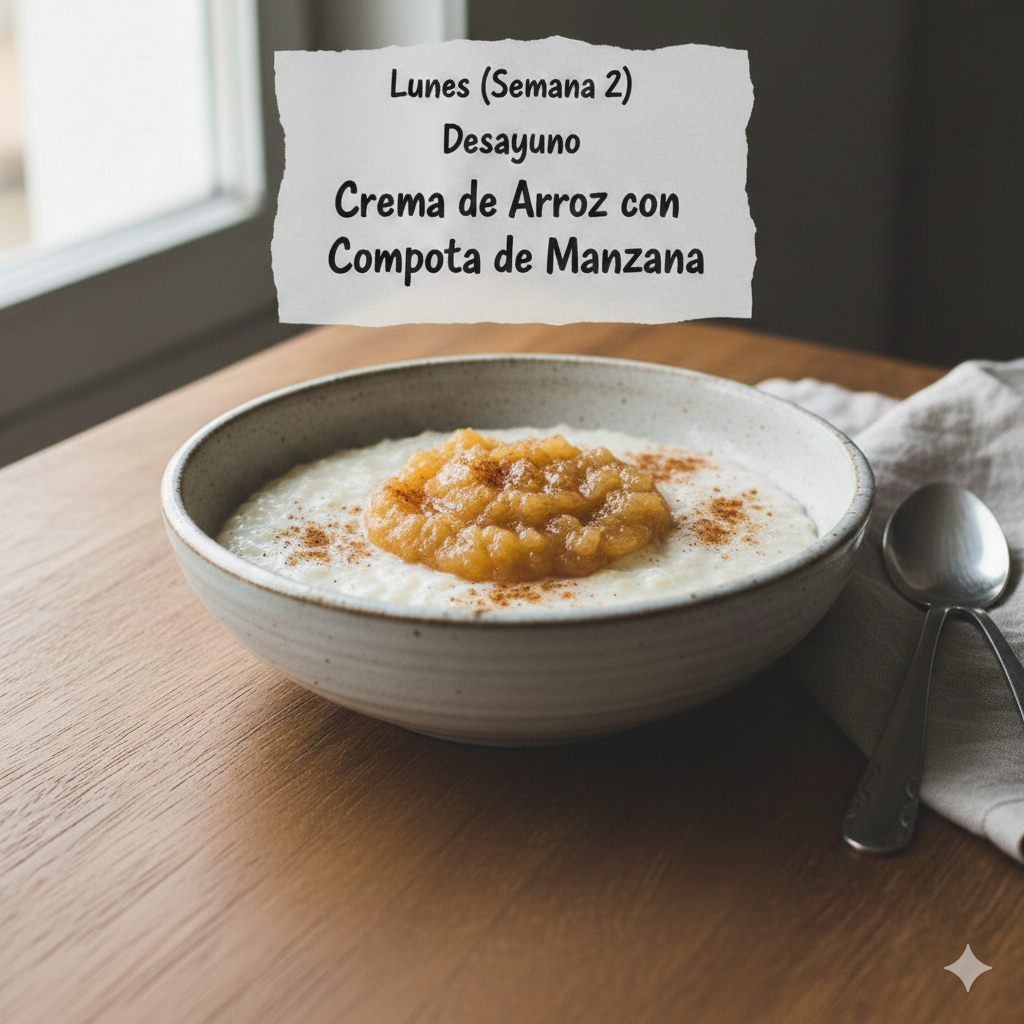
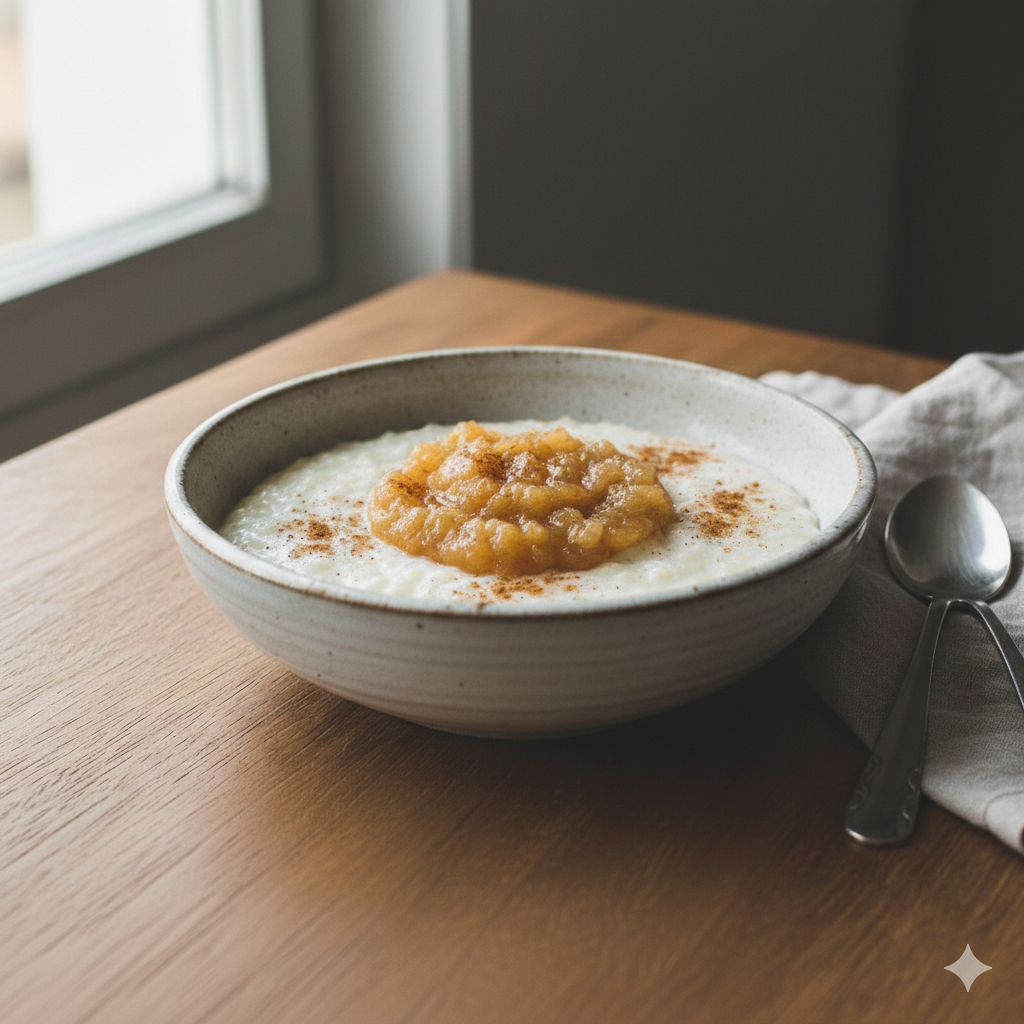
Add more images for 2 days

diff --git a/docs/assets/index-CMbODbm9.js b/docs/assets/index-CMbODbm9.js
@@ -89,35 +89,35 @@ Error generating stack: `+t.message+`
 1. Cocer.
 2. Añadir clara.
 3. Triturar.
-4. Servir.`,prompt:"Healthy vegetable mash in a bowl"},{day:"Lunes (Semana 2)",meal:"Desayuno",title:"Crema de Arroz con Compota de Manzana",image:"images/generic.png",recipe:`Ingredientes: 40g de arroz blanco, 300ml de agua, 100g de compota/puré de manzana sin azúcar, 1 pizca de canela (opcional).
+4. Servir.`,prompt:"Healthy vegetable mash in a bowl"},{day:"Lunes (Semana 2)",meal:"Desayuno",title:"Crema de Arroz con Compota de Manzana",image:"images/2lunes1.png",recipe:`Ingredientes: 40g de arroz blanco, 300ml de agua, 100g de compota/puré de manzana sin azúcar, 1 pizca de canela (opcional).
 1. Lavar el arroz y cocerlo en 300ml de agua a fuego bajo 18-20 minutos (debe quedar muy blando).
 2. Triturar el arroz cocido con parte del líquido hasta lograr una crema (añadir un poco de agua si queda muy espeso).
 3. Servir tibio y colocar la compota de manzana encima.
-4. Opcional: espolvorear una pizca de canela; evitar limón o cítricos.`,prompt:"Creamy rice porridge topped with applesauce in a simple bowl, soft lighting"},{day:"Lunes (Semana 2)",meal:"Almuerzo",title:"Tilapia en Papillote con Calabacín y Patata",image:"images/generic.png",recipe:`Ingredientes: 150g de filete de tilapia (u otro pescado blanco), 200g de patata, 120g de calabacín, 5ml (1 cdita) de aceite de oliva, sal mínima.
+4. Opcional: espolvorear una pizca de canela; evitar limón o cítricos.`,prompt:"Creamy rice porridge topped with applesauce in a simple bowl, soft lighting"},{day:"Lunes (Semana 2)",meal:"Almuerzo",title:"Tilapia en Papillote con Calabacín y Patata",image:"images/2lunes2.png",recipe:`Ingredientes: 150g de filete de tilapia (u otro pescado blanco), 200g de patata, 120g de calabacín, 5ml (1 cdita) de aceite de oliva, sal mínima.
 1. Hervir la patata en cubos 10-12 min hasta que esté tierna; escurrir.
 2. Colocar el pescado y el calabacín en láminas sobre papel para horno; añadir 2 cdas de agua y cerrar el papillote.
 3. Hornear a 180°C por 12-15 min (sin dorar en exceso).
-4. Servir tibio con la patata y añadir 1 cdita de aceite al final.`,prompt:"White fish baked in parchment with zucchini, served with boiled potatoes, minimalistic plate"},{day:"Lunes (Semana 2)",meal:"Cena",title:"Crema de Calabacín y Patata",image:"images/generic.png",recipe:`Ingredientes: 250g de calabacín pelado, 150g de patata, 450ml de agua o caldo desgrasado, 5ml (1 cdita) de aceite de oliva.
+4. Servir tibio con la patata y añadir 1 cdita de aceite al final.`,prompt:"White fish baked in parchment with zucchini, served with boiled potatoes, minimalistic plate"},{day:"Lunes (Semana 2)",meal:"Cena",title:"Crema de Calabacín y Patata",image:"images/2lunes3.png",recipe:`Ingredientes: 250g de calabacín pelado, 150g de patata, 450ml de agua o caldo desgrasado, 5ml (1 cdita) de aceite de oliva.
 1. Cortar calabacín y patata en cubos y hervir 18-20 min.
 2. Reservar un poco del líquido de cocción y triturar hasta textura fina.
 3. Ajustar con el líquido reservado si hace falta (debe quedar crema ligera).
-4. Servir tibia y añadir 1 cdita de aceite por encima.`,prompt:"Smooth zucchini and potato cream soup in a white bowl, soft steam"},{day:"Martes (Semana 2)",meal:"Desayuno",title:"Sémola de Trigo con Leche Desnatada",image:"images/generic.png",recipe:`Ingredientes: 35g de sémola de trigo (o farina), 250ml de leche desnatada (o bebida vegetal), 1 pizca de canela (opcional).
+4. Servir tibia y añadir 1 cdita de aceite por encima.`,prompt:"Smooth zucchini and potato cream soup in a white bowl, soft steam"},{day:"Martes (Semana 2)",meal:"Desayuno",title:"Sémola de Trigo con Leche Desnatada",image:"images/2martes1.png",recipe:`Ingredientes: 35g de sémola de trigo (o farina), 250ml de leche desnatada (o bebida vegetal), 1 pizca de canela (opcional).
 1. Calentar la leche a fuego bajo hasta que esté caliente (sin hervir fuerte).
 2. Añadir la sémola en lluvia, removiendo para evitar grumos.
 3. Cocinar 3-4 min hasta que espese, removiendo suave.
-4. Servir tibia; opcional añadir canela (sin cacao ni chocolate).`,prompt:"Warm semolina porridge in a bowl, creamy texture, simple presentation"},{day:"Martes (Semana 2)",meal:"Almuerzo",title:"Pollo al Horno Jugoso con Puré de Camote",image:"images/generic.png",recipe:`Ingredientes: 150g de pechuga de pollo, 250g de camote/batata, 30ml de leche desnatada (opcional), 5ml (1 cdita) de aceite de oliva, sal mínima.
+4. Servir tibia; opcional añadir canela (sin cacao ni chocolate).`,prompt:"Warm semolina porridge in a bowl, creamy texture, simple presentation"},{day:"Martes (Semana 2)",meal:"Almuerzo",title:"Pollo al Horno Jugoso con Puré de Camote",image:"images/2martes2.png",recipe:`Ingredientes: 150g de pechuga de pollo, 250g de camote/batata, 30ml de leche desnatada (opcional), 5ml (1 cdita) de aceite de oliva, sal mínima.
 1. Hervir el camote pelado 18-20 min; chafar con 30ml de leche o con un poco de agua de cocción.
 2. Colocar el pollo en una fuente con 1 cda de agua, tapar con papel aluminio.
 3. Hornear a 180°C por 18-20 min (evitar que se dore o se seque).
-4. Reposar 2 min, cortar en tiras y servir con el puré tibio.`,prompt:"Tender baked chicken breast served with smooth sweet potato mash, neutral tones"},{day:"Martes (Semana 2)",meal:"Cena",title:"Sopa de Arroz con Zanahoria",image:"images/generic.png",recipe:`Ingredientes: 500ml de caldo desgrasado (pollo o verduras), 40g de arroz blanco, 60g de zanahoria, sal mínima.
+4. Reposar 2 min, cortar en tiras y servir con el puré tibio.`,prompt:"Tender baked chicken breast served with smooth sweet potato mash, neutral tones"},{day:"Martes (Semana 2)",meal:"Cena",title:"Sopa de Arroz con Zanahoria",image:"images/2martes3.png",recipe:`Ingredientes: 500ml de caldo desgrasado (pollo o verduras), 40g de arroz blanco, 60g de zanahoria, sal mínima.
 1. Llevar el caldo a ebullición suave.
 2. Añadir la zanahoria en cubitos muy pequeños y cocer 8 min.
 3. Agregar el arroz lavado y cocinar 18-20 min hasta que esté muy blando.
-4. Servir tibia; si queda espesa, ajustar con un poco de agua caliente.`,prompt:"Simple rice and carrot soup, clear broth, comforting bowl"},{day:"Miércoles (Semana 2)",meal:"Desayuno",title:"Pan Blanco con Requesón y Mermelada de Durazno",image:"images/generic.png",recipe:`Ingredientes: 2 rebanadas de pan blanco, 60g de requesón/ricotta (bajo en grasa), 20g de mermelada de durazno sin semillas.
+4. Servir tibia; si queda espesa, ajustar con un poco de agua caliente.`,prompt:"Simple rice and carrot soup, clear broth, comforting bowl"},{day:"Miércoles (Semana 2)",meal:"Desayuno",title:"Pan Blanco con Requesón y Mermelada de Durazno",image:"images/2miercoles1.png",recipe:`Ingredientes: 2 rebanadas de pan blanco, 60g de requesón/ricotta (bajo en grasa), 20g de mermelada de durazno sin semillas.
 1. Tostar el pan muy ligeramente (solo para entibiar).
 2. Untar el requesón en capa fina.
 3. Añadir la mermelada por encima (cantidad moderada).
-4. Consumir despacio; evitar mermeladas ácidas (cítricos).`,prompt:"White bread toast with ricotta and peach jam, minimal styling"},{day:"Miércoles (Semana 2)",meal:"Almuerzo",title:"Bacalao Hervido con Patata",image:"images/generic.png",recipe:`Ingredientes: 160g de bacalao fresco (o pescado blanco), 200g de patata, 5ml (1 cdita) de aceite de oliva, sal mínima.
+4. Consumir despacio; evitar mermeladas ácidas (cítricos).`,prompt:"White bread toast with ricotta and peach jam, minimal styling"},{day:"Miércoles (Semana 2)",meal:"Almuerzo",title:"Bacalao Hervido con Patata",image:"images/2miercoles2.png",recipe:`Ingredientes: 160g de bacalao fresco (o pescado blanco), 200g de patata, 5ml (1 cdita) de aceite de oliva, sal mínima.
 1. Hervir la patata en cubos 12-15 min; escurrir.
 2. En otra olla, calentar agua hasta casi hervir (fuego suave).
 3. Cocer el bacalao 6-8 min (solo hasta que se desmenuce; no sobrecocer).

diff --git a/src/App.jsx b/src/App.jsx
@@ -242,7 +242,7 @@ const App = () => {
     day: "Lunes (Semana 2)",
     meal: "Desayuno",
     title: "Crema de Arroz con Compota de Manzana",
-    image: "images/generic.png",
+    image: "images/2lunes1.png",
     recipe:
       "Ingredientes: 40g de arroz blanco, 300ml de agua, 100g de compota/puré de manzana sin azúcar, 1 pizca de canela (opcional).\n1. Lavar el arroz y cocerlo en 300ml de agua a fuego bajo 18-20 minutos (debe quedar muy blando).\n2. Triturar el arroz cocido con parte del líquido hasta lograr una crema (añadir un poco de agua si queda muy espeso).\n3. Servir tibio y colocar la compota de manzana encima.\n4. Opcional: espolvorear una pizca de canela; evitar limón o cítricos.",
     prompt: "Creamy rice porridge topped with applesauce in a simple bowl, soft lighting"
@@ -251,7 +251,7 @@ const App = () => {
     day: "Lunes (Semana 2)",
     meal: "Almuerzo",
     title: "Tilapia en Papillote con Calabacín y Patata",
-    image: "images/generic.png",
+    image: "images/2lunes2.png",
     recipe:
       "Ingredientes: 150g de filete de tilapia (u otro pescado blanco), 200g de patata, 120g de calabacín, 5ml (1 cdita) de aceite de oliva, sal mínima.\n1. Hervir la patata en cubos 10-12 min hasta que esté tierna; escurrir.\n2. Colocar el pescado y el calabacín en láminas sobre papel para horno; añadir 2 cdas de agua y cerrar el papillote.\n3. Hornear a 180°C por 12-15 min (sin dorar en exceso).\n4. Servir tibio con la patata y añadir 1 cdita de aceite al final.",
     prompt: "White fish baked in parchment with zucchini, served with boiled potatoes, minimalistic plate"
@@ -260,7 +260,7 @@ const App = () => {
     day: "Lunes (Semana 2)",
     meal: "Cena",
     title: "Crema de Calabacín y Patata",
-    image: "images/generic.png",
+    image: "images/2lunes3.png",
     recipe:
       "Ingredientes: 250g de calabacín pelado, 150g de patata, 450ml de agua o caldo desgrasado, 5ml (1 cdita) de aceite de oliva.\n1. Cortar calabacín y patata en cubos y hervir 18-20 min.\n2. Reservar un poco del líquido de cocción y triturar hasta textura fina.\n3. Ajustar con el líquido reservado si hace falta (debe quedar crema ligera).\n4. Servir tibia y añadir 1 cdita de aceite por encima.",
     prompt: "Smooth zucchini and potato cream soup in a white bowl, soft steam"
@@ -270,7 +270,7 @@ const App = () => {
     day: "Martes (Semana 2)",
     meal: "Desayuno",
     title: "Sémola de Trigo con Leche Desnatada",
-    image: "images/generic.png",
+    image: "images/2martes1.png",
     recipe:
       "Ingredientes: 35g de sémola de trigo (o farina), 250ml de leche desnatada (o bebida vegetal), 1 pizca de canela (opcional).\n1. Calentar la leche a fuego bajo hasta que esté caliente (sin hervir fuerte).\n2. Añadir la sémola en lluvia, removiendo para evitar grumos.\n3. Cocinar 3-4 min hasta que espese, removiendo suave.\n4. Servir tibia; opcional añadir canela (sin cacao ni chocolate).",
     prompt: "Warm semolina porridge in a bowl, creamy texture, simple presentation"
@@ -279,7 +279,7 @@ const App = () => {
     day: "Martes (Semana 2)",
     meal: "Almuerzo",
     title: "Pollo al Horno Jugoso con Puré de Camote",
-    image: "images/generic.png",
+    image: "images/2martes2.png",
     recipe:
       "Ingredientes: 150g de pechuga de pollo, 250g de camote/batata, 30ml de leche desnatada (opcional), 5ml (1 cdita) de aceite de oliva, sal mínima.\n1. Hervir el camote pelado 18-20 min; chafar con 30ml de leche o con un poco de agua de cocción.\n2. Colocar el pollo en una fuente con 1 cda de agua, tapar con papel aluminio.\n3. Hornear a 180°C por 18-20 min (evitar que se dore o se seque).\n4. Reposar 2 min, cortar en tiras y servir con el puré tibio.",
     prompt: "Tender baked chicken breast served with smooth sweet potato mash, neutral tones"
@@ -288,7 +288,7 @@ const App = () => {
     day: "Martes (Semana 2)",
     meal: "Cena",
     title: "Sopa de Arroz con Zanahoria",
-    image: "images/generic.png",
+    image: "images/2martes3.png",
     recipe:
       "Ingredientes: 500ml de caldo desgrasado (pollo o verduras), 40g de arroz blanco, 60g de zanahoria, sal mínima.\n1. Llevar el caldo a ebullición suave.\n2. Añadir la zanahoria en cubitos muy pequeños y cocer 8 min.\n3. Agregar el arroz lavado y cocinar 18-20 min hasta que esté muy blando.\n4. Servir tibia; si queda espesa, ajustar con un poco de agua caliente.",
     prompt: "Simple rice and carrot soup, clear broth, comforting bowl"
@@ -298,7 +298,7 @@ const App = () => {
     day: "Miércoles (Semana 2)",
     meal: "Desayuno",
     title: "Pan Blanco con Requesón y Mermelada de Durazno",
-    image: "images/generic.png",
+    image: "images/2miercoles1.png",
     recipe:
       "Ingredientes: 2 rebanadas de pan blanco, 60g de requesón/ricotta (bajo en grasa), 20g de mermelada de durazno sin semillas.\n1. Tostar el pan muy ligeramente (solo para entibiar).\n2. Untar el requesón en capa fina.\n3. Añadir la mermelada por encima (cantidad moderada).\n4. Consumir despacio; evitar mermeladas ácidas (cítricos).",
     prompt: "White bread toast with ricotta and peach jam, minimal styling"
@@ -307,7 +307,7 @@ const App = () => {
     day: "Miércoles (Semana 2)",
     meal: "Almuerzo",
     title: "Bacalao Hervido con Patata",
-    image: "images/generic.png",
+    image: "images/2miercoles2.png",
     recipe:
       "Ingredientes: 160g de bacalao fresco (o pescado blanco), 200g de patata, 5ml (1 cdita) de aceite de oliva, sal mínima.\n1. Hervir la patata en cubos 12-15 min; escurrir.\n2. En otra olla, calentar agua hasta casi hervir (fuego suave).\n3. Cocer el bacalao 6-8 min (solo hasta que se desmenuce; no sobrecocer).\n4. Servir tibio con la patata y añadir 1 cdita de aceite al final.",
     prompt: "Poached cod with boiled potatoes, very simple plating, soft tones"

diff --git a/docs/index.html b/docs/index.html
@@ -5,7 +5,7 @@
     <link rel="icon" type="image/svg+xml" href="/gas-page-front/vite.svg" />
     <meta name="viewport" content="width=device-width, initial-scale=1.0" />
     <title>gastritis-frontend</title>
-    <script type="module" crossorigin src="/gas-page-front/assets/index-CH7comuX.js"></script>
+    <script type="module" crossorigin src="/gas-page-front/assets/index-CMbODbm9.js"></script>
     <link rel="stylesheet" crossorigin href="/gas-page-front/assets/index-D-0no7tI.css">
   </head>
   <body>
